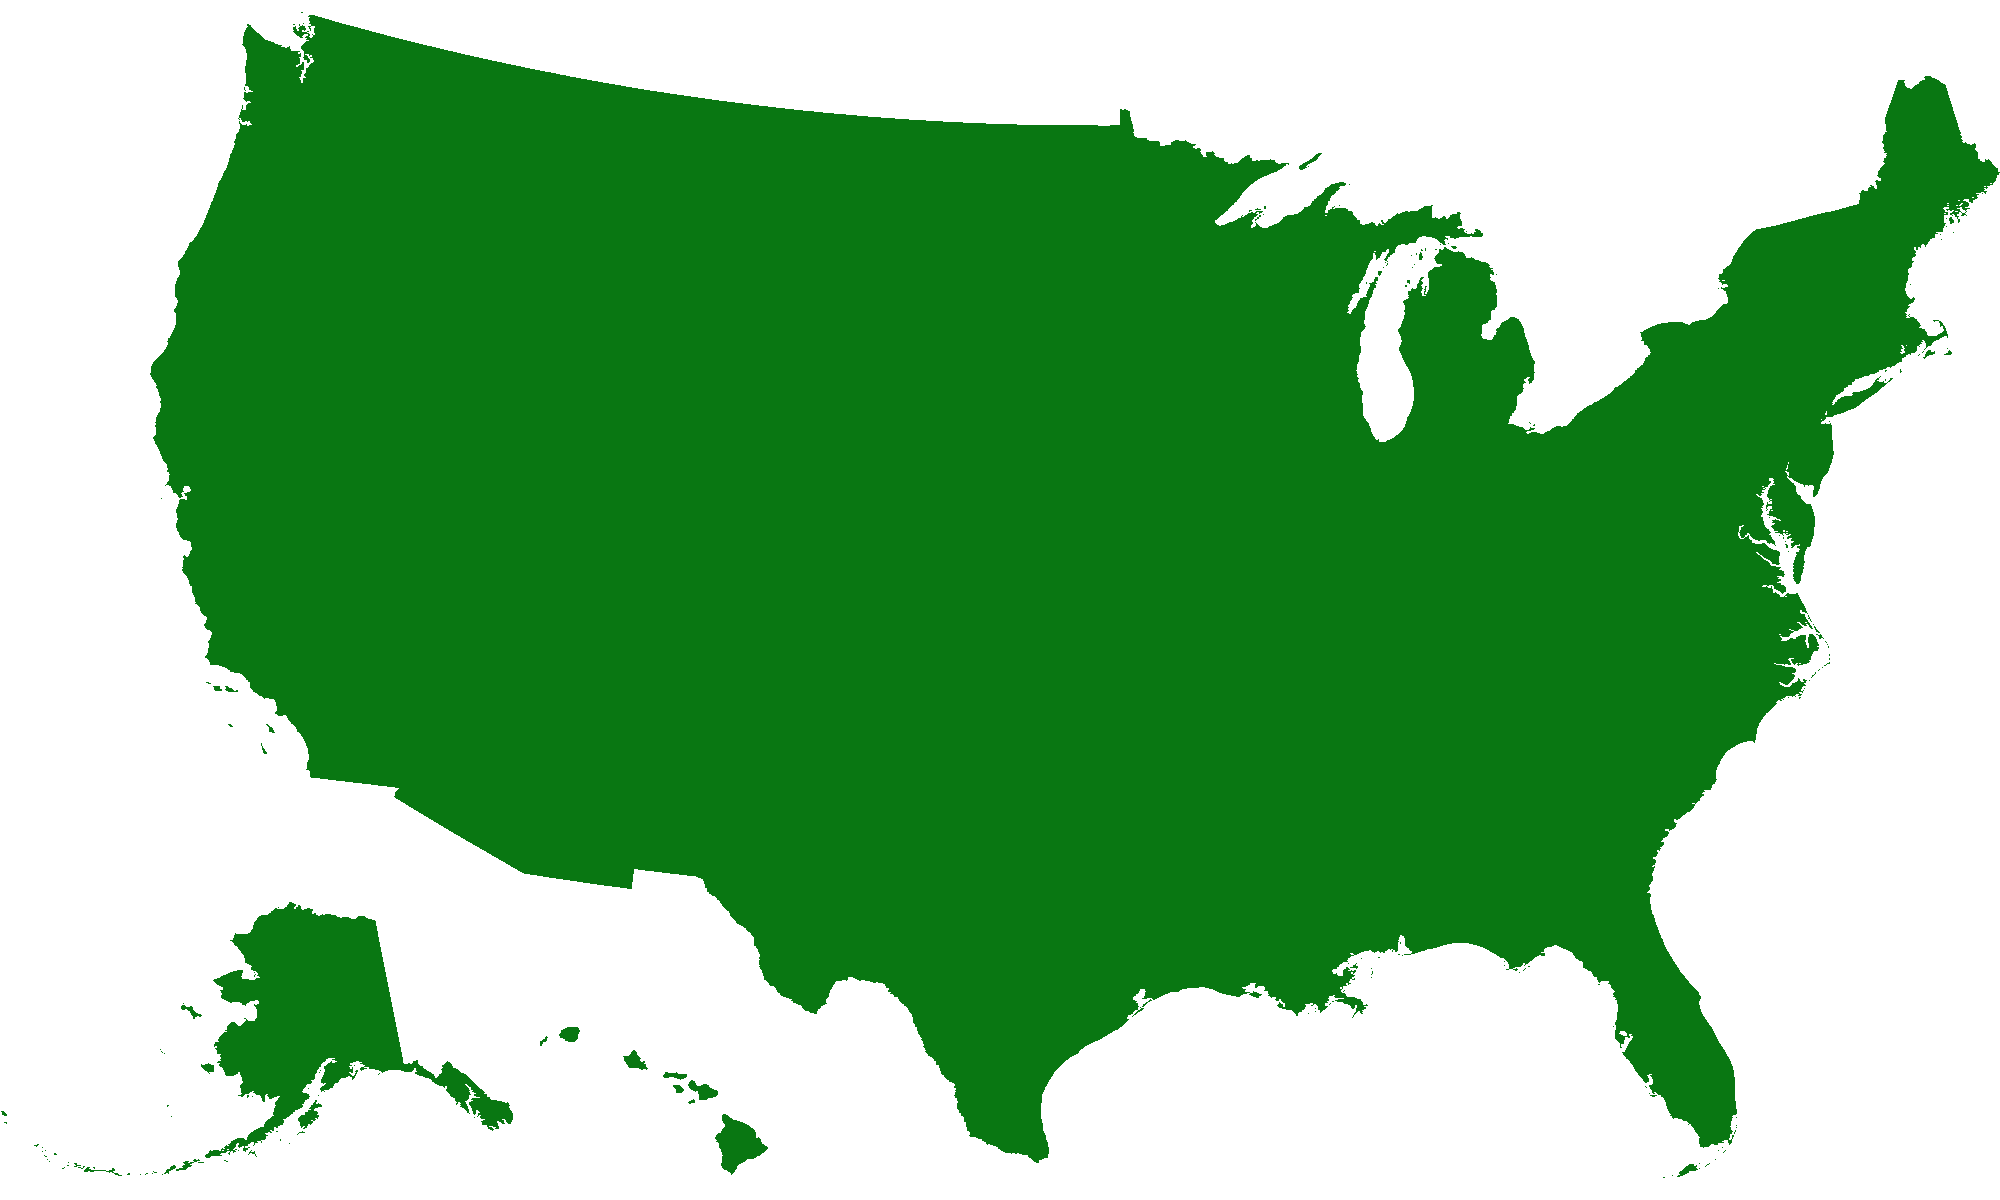
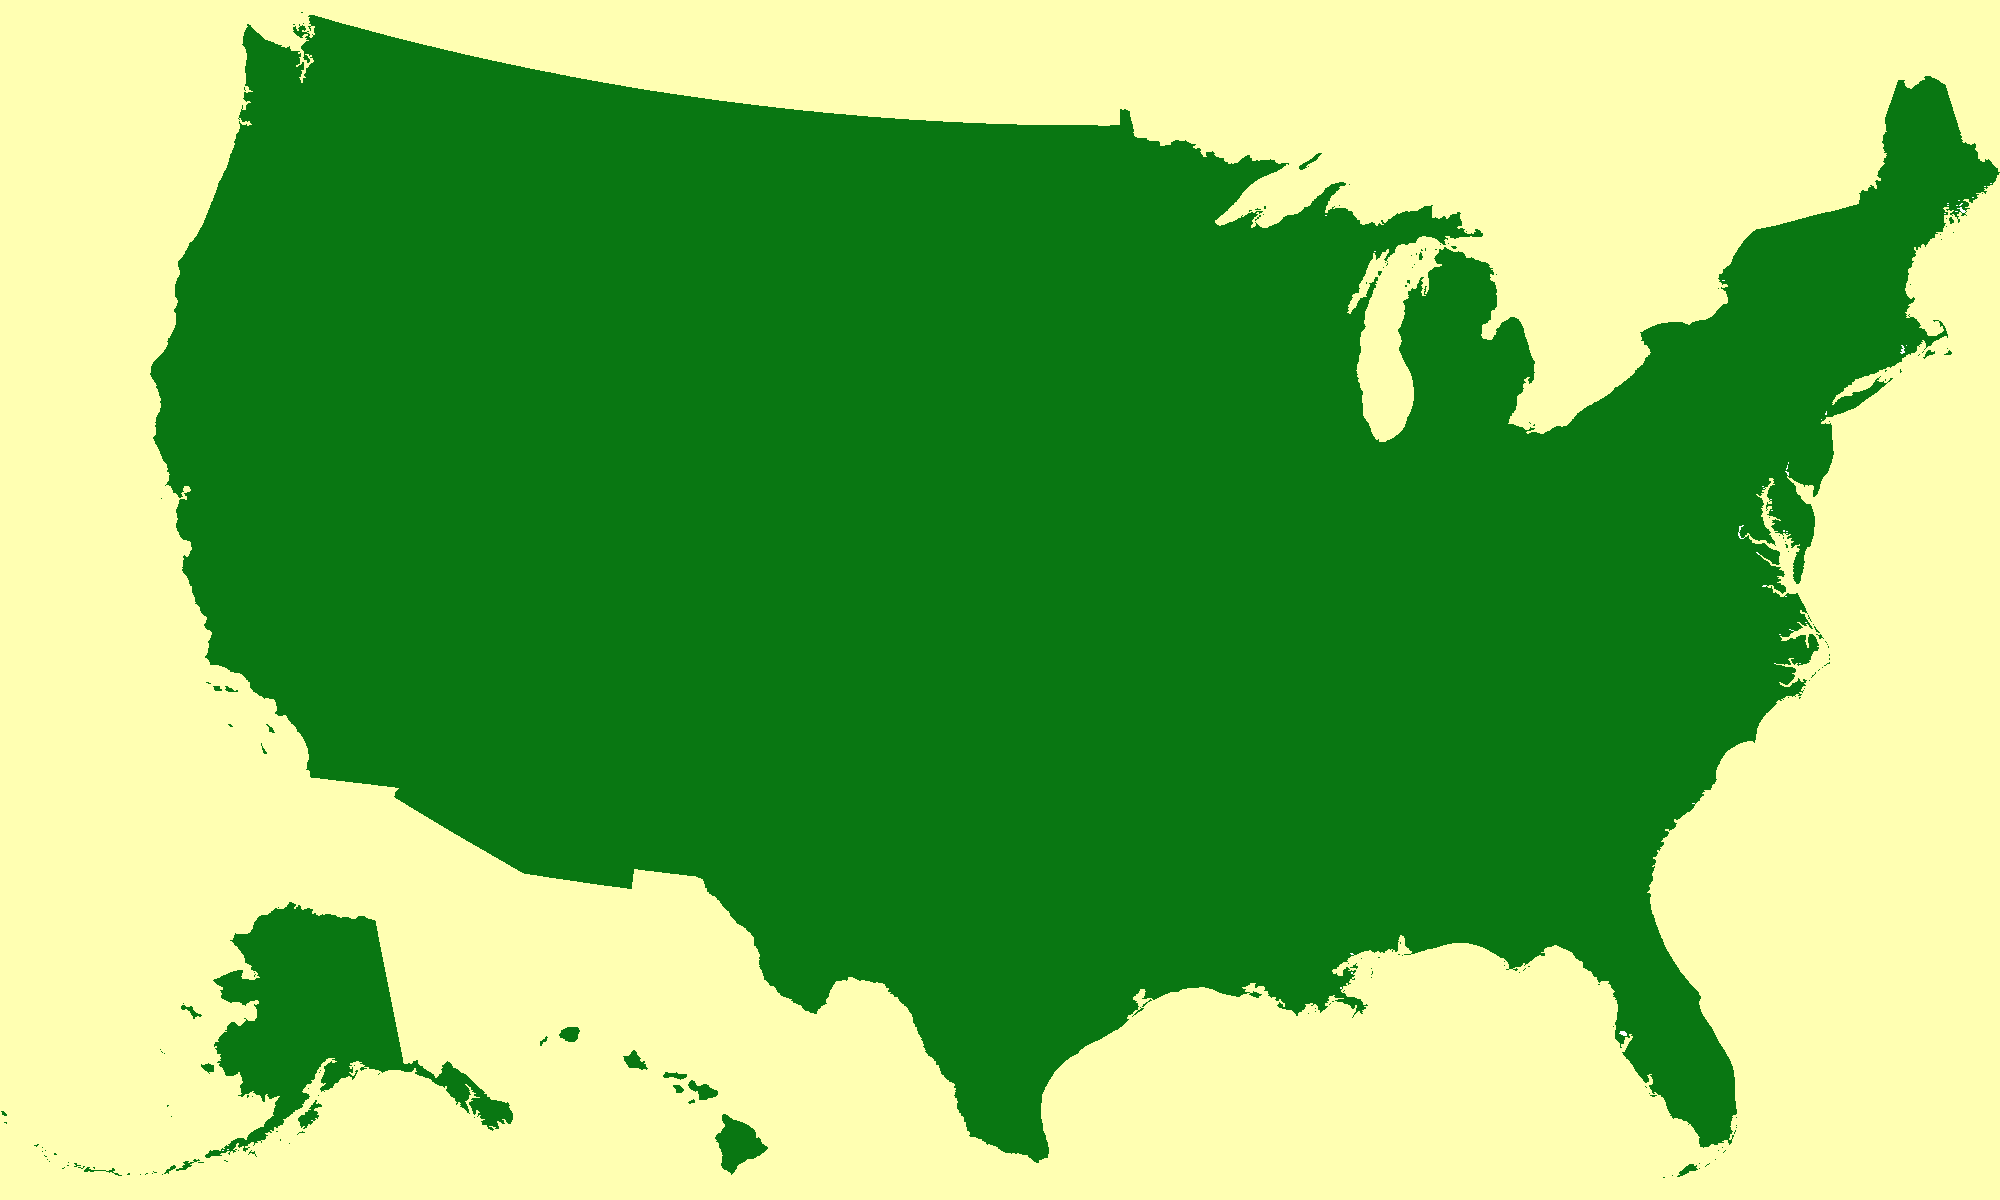
Did some more work

diff --git a/Triumph/Assets/Scripts/MapController.cs b/Triumph/Assets/Scripts/MapController.cs
@@ -1,0 +1,107 @@
+using System.Collections;
+using System.Collections.Generic;
+using UnityEngine;
+
+public class MapController : MonoBehaviour
+{
+    int width;
+    int height;
+
+    Color32[] remapArr;
+    Texture2D paletteTex;
+
+    Color32 prevColor;
+    bool selectAny = false;
+
+    // Start is called before the first frame update
+    void Start()
+    {
+        var material = GetComponent<Renderer>().material;
+        var mainTex = material.GetTexture("_MainTex") as Texture2D;
+        var mainArr = mainTex.GetPixels32();
+
+        width = mainTex.width;
+        height = mainTex.height;
+
+        var main2remap = new Dictionary<Color32, Color32>();
+        remapArr = new Color32[mainArr.Length];
+        int idx = 0;
+        for (int i = 0; i < mainArr.Length; i++)
+        {
+            var mainColor = mainArr[i];
+            //Debug.Log(mainColor);
+            if (!main2remap.ContainsKey(mainColor))
+            {
+                var low = (byte)(idx % 256);
+                var high = (byte)(idx / 256);
+                main2remap[mainColor] = new Color32(low, high, 0, 255);
+                idx++;
+            }
+            var remapColor = main2remap[mainColor];
+            remapArr[i] = remapColor;
+        }
+
+        Debug.Log(mainArr.Length.ToString());
+
+        var paletteArr = new Color32[256 * 256];
+        for (int i = 0; i < paletteArr.Length; i++)
+        {
+            paletteArr[i] = new Color32(255, 255, 255, 255);
+        }
+
+        var remapTex = new Texture2D(width, height, TextureFormat.RGBA32, false);
+        remapTex.filterMode = FilterMode.Point;
+        remapTex.SetPixels32(remapArr);
+        remapTex.Apply(false);
+        material.SetTexture("_RemapTex", remapTex);
+
+        paletteTex = new Texture2D(256, 256, TextureFormat.RGBA32, false);
+        paletteTex.filterMode = FilterMode.Point;
+        paletteTex.SetPixels32(paletteArr);
+        paletteTex.Apply(false);
+        material.SetTexture("_PaletteTex", paletteTex);
+
+    }
+
+    // Update is called once per frame
+    void Update()
+    {
+        var mousePos = Input.mousePosition;
+        var ray = Camera.main.ScreenPointToRay(mousePos);
+        RaycastHit hitInfo;
+        if (Physics.Raycast(ray, out hitInfo))
+        {
+            var p = hitInfo.point;
+            int x = (int)Mathf.Floor(p.x) + width / 2;
+            int z = (int)Mathf.Floor(p.z) + height / 2;
+
+            var remapColor = remapArr[x + z * width];
+
+            if (!selectAny || !prevColor.Equals(remapColor))
+            {
+                if (selectAny)
+                {
+                    changeColor(prevColor, new Color32(255, 255, 255, 255));
+                }
+                selectAny = true;
+                prevColor = remapColor;
+                changeColor(remapColor, new Color32(50, 0, 255, 255));
+                paletteTex.Apply(false);
+            }
+
+            //Debug.Log($"X:{x} Y:{y}");
+        }
+    }
+
+    void changeColor(Color32 remapColor, Color32 showColor)
+    {
+        int xp = remapColor[0];
+        int zp = remapColor[1];
+
+        Debug.Log($"{remapColor} -- {showColor}");
+
+        paletteTex.SetPixel(xp, zp, showColor);
+        //Debug.dr();
+        //Debug.Log($"X:{xp} Y:{yp}");
+    }
+}
